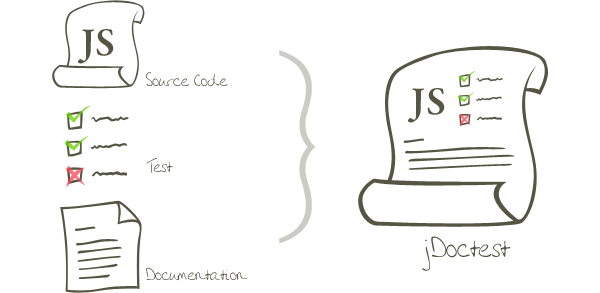
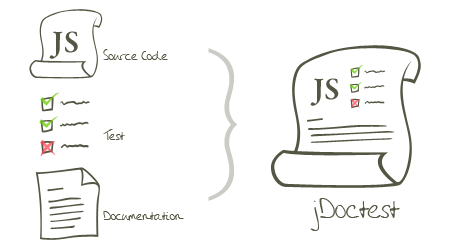
Update the documentation.

diff --git a/_static/jdoctest.css b/_static/jdoctest.css
@@ -77,6 +77,10 @@ dd .highlight {
   background: #f4f4f4;
 }
 
+.figure {
+  text-align: center;
+}
+
 .wrap {
   margin: 0 auto;
   width: 600px;
